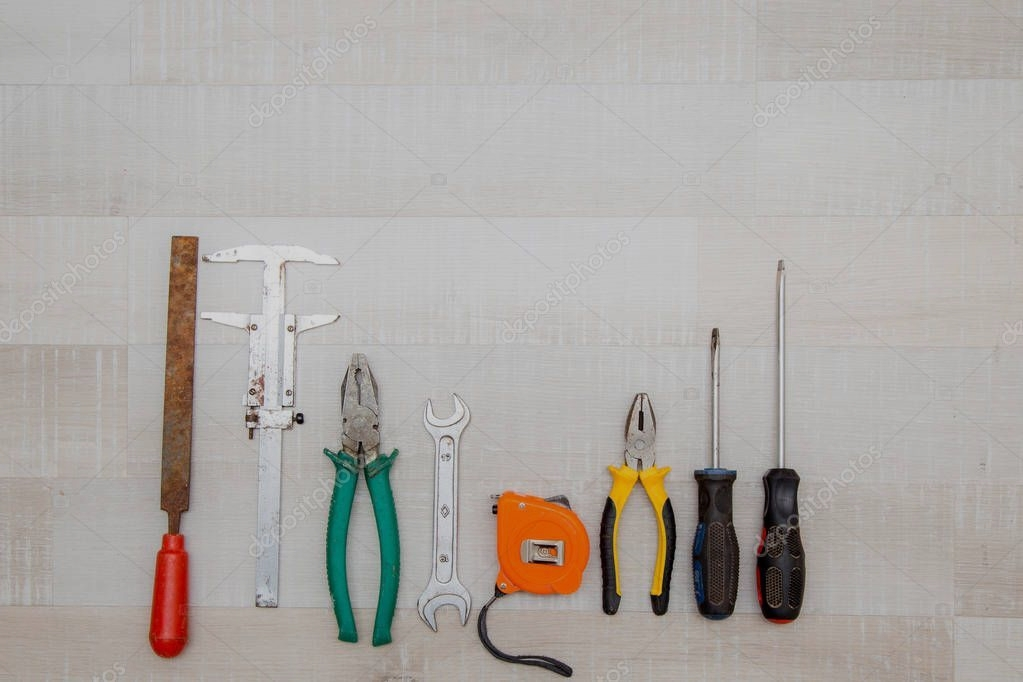
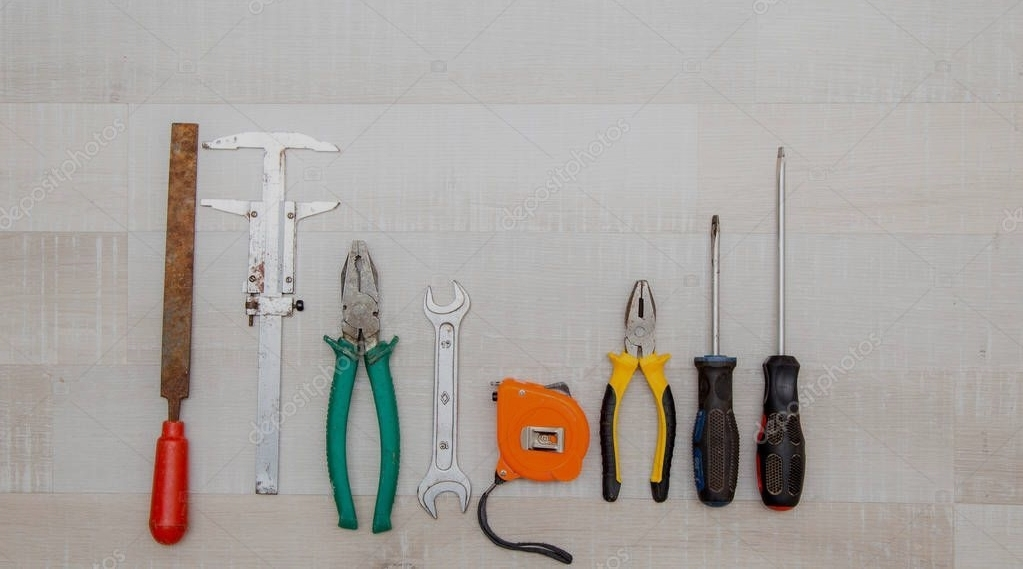
background images fixed

diff --git a/src/Pages/PageNotFound/PageNotFound.js b/src/Pages/PageNotFound/PageNotFound.js
@@ -1,6 +1,7 @@
 import React from "react";
 import { useNavigate } from "react-router-dom";
 import Footer from "../Shared/Footer/Footer";
+import bg from "../../images/background/banner_bg1.jpg";
 
 const PageNotFound = () => {
   const navigate = useNavigate();
@@ -8,14 +9,13 @@ const PageNotFound = () => {
     <div>
       <div
         style={{
-          background: `url(https://previews.123rf.com/images/serezniy/serezniy1811/serezniy181146130/112715442-different-electrical-tools-on-grey-background.jpg?fj=1)`,
-          backgroundPosition: "center",
-          backgroundRepeat: "no-repeat",
+          background: `url(${bg})`,
+          backgroundSize: "100%",
         }}
-        className="hero min-h-screen"
+        className="hero min-h-[500px]"
       >
         <div className="hero-overlay bg-opacity-80"></div>
-        <div className="hero-content text-center text-neutral bg-white mx-4 lg:mx-0 lg:p-24 rounded-xl">
+        <div className="hero-content text-center text-white">
           <div className="max-w-md">
             <h1 className="mb-5 text-7xl lg:text-9xl bg-clip-text text-transparent bg-gradient-to-r from-secondary to-primary font-bold">
               404

diff --git a/src/Pages/Home/Banner.js b/src/Pages/Home/Banner.js
@@ -1,15 +1,14 @@
 import React from "react";
+import bg from "../../images/background/banner_bg1.jpg";
 
 const Banner = () => {
   return (
     <div
       style={{
-        background: `url(https://previews.123rf.com/images/serezniy/serezniy1811/serezniy181146130/112715442-different-electrical-tools-on-grey-background.jpg?fj=1)`,
-        backgroundPosition: "center",
-        backgroundRepeat: "no-repeat",
+        background: `url(${bg})`,
+        backgroundSize: "100%",
       }}
       className="hero min-h-[500px]"
-      // className="hero min-h-screen"
     >
       <div className="hero-overlay bg-opacity-80"></div>
       <div className="hero-content text-center text-white">

diff --git a/src/Pages/Register/Register.js b/src/Pages/Register/Register.js
@@ -58,14 +58,11 @@ const Register = () => {
     <div
       style={{
         background: `url(${background})`,
+        backgroundSize: "100%",
       }}
     >
       <div className="py-20 px-2">
-        <div
-          data-aos="zoom-in lg:fade-up"
-          data-aos-duration="1000"
-          className="card lg:max-w-md border-t-4 shadow-xl mx-auto bg-white"
-        >
+        <div className="card lg:max-w-md border-t-4 shadow-xl mx-auto bg-white">
           <div className="card-body">
             <h2 className="text-center text-2xl font-semibold mb-4">
               <span className="mr-2">Register</span>

diff --git a/src/Pages/Login/Login.js b/src/Pages/Login/Login.js
@@ -71,14 +71,11 @@ const Login = () => {
     <div
       style={{
         background: `url(${background})`,
+        backgroundSize: "100%",
       }}
     >
       <div className="py-20 px-2">
-        <div
-          data-aos="zoom-in lg:fade-up"
-          data-aos-duration="1000"
-          className="card lg:max-w-md border-t-4 shadow-2xl mx-auto bg-white"
-        >
+        <div className="card lg:max-w-md border-t-4 shadow-2xl mx-auto bg-white">
           <div className="card-body">
             <h2 className="text-center text-2xl font-semibold mb-4">
               <span className="mr-2">Login</span>
